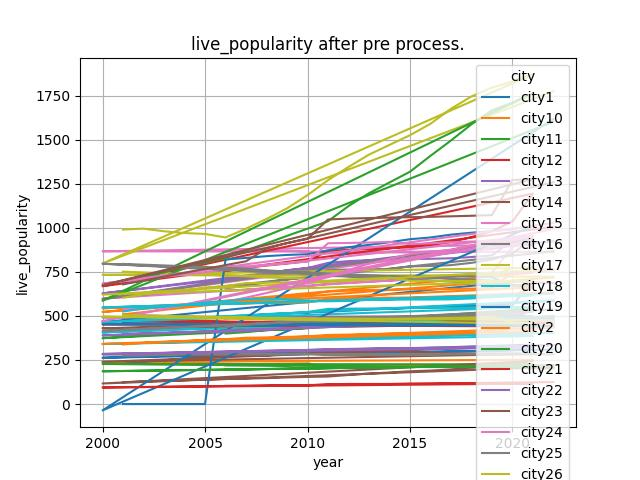
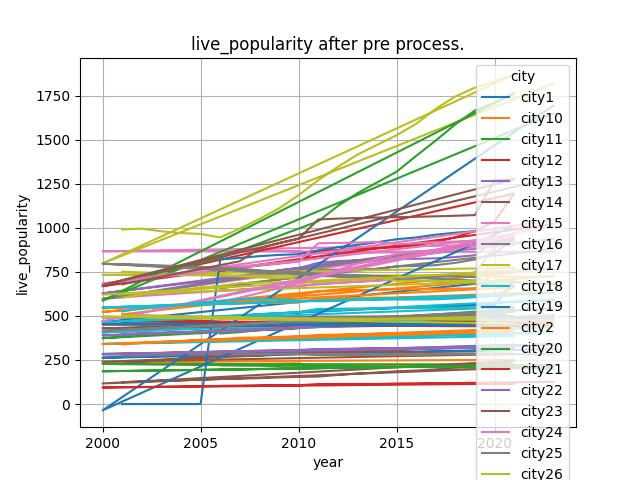
add pred

diff --git a/popularity_prepro.py b/popularity_prepro.py
@@ -46,7 +46,7 @@ plt.show()
 #             csv_writer.writerow([key,df.loc[i]['年份'],df.loc[i]['户籍人口（万人）']])
           
 # 插值
-year=[int(i) for i in range(2000,2023)]
+year=[int(i) for i in range(2000,2024)]
 for key in cities:
     if ('live_popularity' not in cities[key]):
         print(key)
@@ -93,49 +93,56 @@ with open("./popularity/live_popularity_process.csv","w+",encoding="utf-8",newli
         for i in range(1,len(df)-1):
             csv_writer.writerow([key,df.loc[i]['年份'],df.loc[i]['常住人口（万人）']])
 
-
-for key in cities:
-    if ('born_popularity' not in cities[key]):
-        print(key)
-        continue
-    df = cities[key]['born_popularity']
-    df = df.dropna(axis=0,how='any')
-    data_train = df.iloc[[int(i) for i in range(0, int(0.8 * len(df)))]]
-    data_train_x = data_train[['年份']]
-    data_train_y2 = data_train['户籍人口（万人）']
-    clf2 = LinearRegression()
-    clf2.fit(data_train_x, data_train_y2)
-    for i in year:
-        if(len(df[df['年份'] == i])==0):
-            yred = clf2.predict([[i]])
-            cities[key]['born_popularity'] = cities[key]['born_popularity']._append(pd.DataFrame([[i, yred[0]]], columns=df.columns))
-        elif(len(df[df['年份'] == i])==1):
-            pass
-        else:
-            mean_of_i=df[df['年份'] == i].mean()
-            cities[key]['born_popularity']=cities[key]['born_popularity'].drop(df[df['年份'] == i].index)
-            cities[key]['born_popularity'] = cities[key]['born_popularity']._append(
-                pd.DataFrame([[i, mean_of_i['户籍人口（万人）']]], columns=df.columns))
-            
-            cities[key]['born_popularity'] = cities[key]['born_popularity'].sort_values(by=['年份'],ascending=[True])
-    cities[key]['born_popularity'].reset_index(drop=True)
-    # print(cities[key]['popularity density'])
-    dff = cities[key]['born_popularity']
-    #print(dff)
-    plt.plot(dff.iloc[:,0],dff.iloc[:,1],label=key)
-plt.title('born_popularity after pre process.')
-plt.xlabel('year')
-plt.ylabel('born_popularity')
-plt.legend(title='city')
-plt.grid(True)
-plt.savefig('./popularity/born_popularity_process.jpg')
-plt.show()
-with open("./popularity/born_popularity_process.csv","w+",encoding="utf-8",newline="") as f:
+with open("./popularity/live_popularity_2023.csv","w+",encoding="utf-8",newline="") as f:
     csv_writer=csv.writer(f)
-    csv_writer.writerow(["city","year","born_popularity"])
+    csv_writer.writerow(["city_id","year","pred"])
     for key in cities:
-        df=cities[key]['born_popularity']
+        df = cities[key]['live_popularity']
         df.reset_index(drop=True,inplace=True)
         print(df)
-        for i in range(1,len(df)-1):
-            csv_writer.writerow([key,df.loc[i]['年份'],df.loc[i]['户籍人口（万人）']])
+        csv_writer.writerow([key,2023,df.loc[23,'年份']])
+# for key in cities:
+#     if ('born_popularity' not in cities[key]):
+#         print(key)
+#         continue
+#     df = cities[key]['born_popularity']
+#     df = df.dropna(axis=0,how='any')
+#     data_train = df.iloc[[int(i) for i in range(0, int(0.8 * len(df)))]]
+#     data_train_x = data_train[['年份']]
+#     data_train_y2 = data_train['户籍人口（万人）']
+#     clf2 = LinearRegression()
+#     clf2.fit(data_train_x, data_train_y2)
+#     for i in year:
+#         if(len(df[df['年份'] == i])==0):
+#             yred = clf2.predict([[i]])
+#             cities[key]['born_popularity'] = cities[key]['born_popularity']._append(pd.DataFrame([[i, yred[0]]], columns=df.columns))
+#         elif(len(df[df['年份'] == i])==1):
+#             pass
+#         else:
+#             mean_of_i=df[df['年份'] == i].mean()
+#             cities[key]['born_popularity']=cities[key]['born_popularity'].drop(df[df['年份'] == i].index)
+#             cities[key]['born_popularity'] = cities[key]['born_popularity']._append(
+#                 pd.DataFrame([[i, mean_of_i['户籍人口（万人）']]], columns=df.columns))
+            
+#             cities[key]['born_popularity'] = cities[key]['born_popularity'].sort_values(by=['年份'],ascending=[True])
+#     cities[key]['born_popularity'].reset_index(drop=True)
+#     # print(cities[key]['popularity density'])
+#     dff = cities[key]['born_popularity']
+#     #print(dff)
+#     plt.plot(dff.iloc[:,0],dff.iloc[:,1],label=key)
+# plt.title('born_popularity after pre process.')
+# plt.xlabel('year')
+# plt.ylabel('born_popularity')
+# plt.legend(title='city')
+# plt.grid(True)
+# plt.savefig('./popularity/born_popularity_process.jpg')
+# plt.show()
+# with open("./popularity/born_popularity_process.csv","w+",encoding="utf-8",newline="") as f:
+#     csv_writer=csv.writer(f)
+#     csv_writer.writerow(["city","year","born_popularity"])
+#     for key in cities:
+#         df=cities[key]['born_popularity']
+#         df.reset_index(drop=True,inplace=True)
+#         print(df)
+#         for i in range(1,len(df)-1):
+#             csv_writer.writerow([key,df.loc[i]['年份'],df.loc[i]['户籍人口（万人）']])

diff --git a/2023pred.py b/2023pred.py
@@ -1,0 +1,52 @@
+import pandas as pd
+import matplotlib.pyplot as plt
+import numpy as np
+import csv
+from sklearn.linear_model import LogisticRegression 
+#调用机器学习库中的逻辑回归模型 若无skic-learn，命令行输入pip install sklearn 安装
+from sklearn import datasets
+from scipy.optimize import curve_fit
+
+def logi(t,k,p0,r):
+    exp_va=np.exp(r*(t-2005))
+    return (k*exp_va*p0)/(k+(exp_va-1)*p0)
+cities={}
+df = pd.read_csv('popularity/live_popularity_raw.csv')
+grouped = df.groupby('city')
+for key, value in grouped:
+    sorted_df = value.sort_values(by='year', ascending=True)
+    cities[key] =  sorted_df.loc[:,['year','live_popularity']]
+with open("./popularity/live_popularity_2023_3.csv","w+",encoding="utf-8",newline="") as f:
+    csv_writer=csv.writer(f)
+    csv_writer.writerow(["city_id","year","pred"])
+    
+
+for city in cities:
+    # if city =="city31":
+    #     with open("./popularity/live_popularity_2023_2.csv","a+",encoding="utf-8",newline="") as f:
+    #         csv_writer=csv.writer(f)
+    #         csv_writer.writerow([city,2023,493.0029411764717])
+    #     continue
+    log_reg = LogisticRegression() #调用逻辑回归库
+    df = cities[city]
+    df = df.dropna(axis=0,how='any')
+    xdata=df.loc[:,'year']
+    ydata=df.loc[:,'live_popularity']
+    # popt,pcov=curve_fit(logi,xdata,ydata,maxfev=100000)
+    f1=np.polyfit(xdata,ydata,3)
+    predyaer=2023
+    # pred = logi(predyaer,*popt)
+    pred=np.polyval(f1,predyaer)
+    with open("./popularity/live_popularity_2023_3.csv","a+",encoding="utf-8",newline="") as f:
+        csv_writer=csv.writer(f)
+        csv_writer.writerow([city,2023,pred])
+
+# log_reg.fit(X1,y1) #训练模型
+# #print(a)
+# print(log_reg.intercept_,log_reg.coef_) #输出预测参数
+# #plt.scatter(X1[:,0],X1[:,1])
+# log_reg.predict([[1.5,1.7]])#单例预测，预测（A=1.5，B=1.7时的C（Y）为？
+# log_reg.score(X1,y1)#模型训练结果评估，输出准确率
+
+
+

diff --git a/2023ext.py b/2023ext.py
@@ -1,0 +1,14 @@
+import csv
+with open("./popularity/live_popularity_process.csv","w+",encoding="utf-8",newline="") as f:
+    csv_writer=csv.writer(f)
+    csv_writer.writerow(["city_id","year","pred"])
+    for key in cities:
+        pred = cities[key]['live_popularity'].loc['2023']
+        csv_writer.writerow([key,2023,pred])
+        
+with open("./popularity/live_popularity_2023.csv","w+",encoding="utf-8",newline="") as f:
+    csv_writer=csv.writer(f)
+    csv_writer.writerow(["city_id","year","pred"])
+    for key in cities:
+        pred = cities[key]['live_popularity'].loc['2023']
+        csv_writer.writerow([key,2023,pred])
